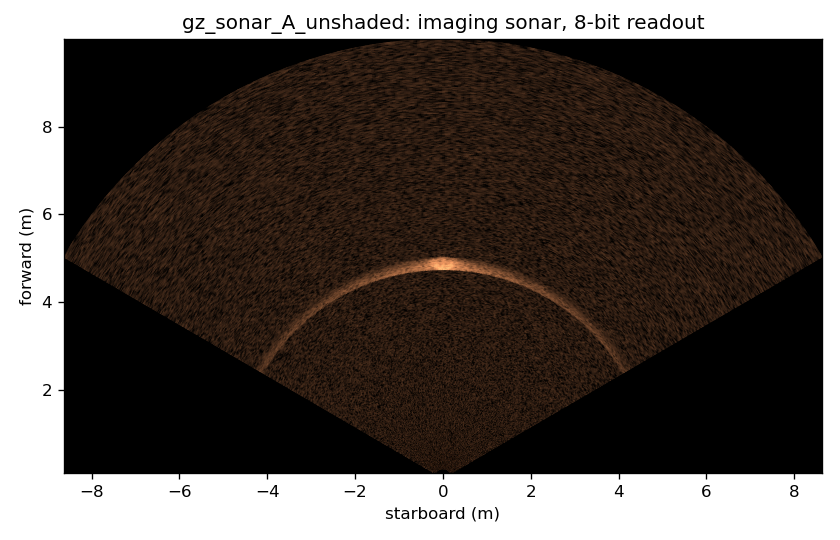
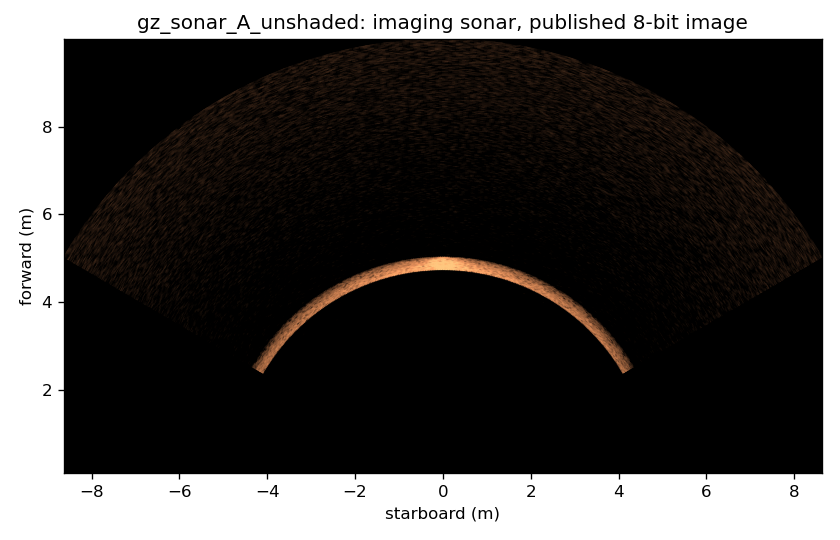
Sonar docs: regenerate the figures the review changes made stale
- render-a-ping: all six gz_sonar_*.png re-rendered with the current
  engine and readout (fixed gain, noise before the gain, the Kirchhoff
  specular term). Scene A's text now says what the image shows: at the
  fixed gain the sphere's sidelobe arc dims away from it and is gone
  about 45 degrees to either side with the shaded array, and reaches the
  fan's edge unshaded.
- sonar-features: the noise comparison redrawn at ping 100 from a static
  probe at the ROV sonar's pose, at the default -140 dB and the page's
  example -110 dB (the old titles gave the pre-change scale).
- The ping-flow figure says the engine runs on up to 8 cores.
- Related work: ray casting in HoloOcean 2.0 is described as in
  development, as its preview paper does.

diff --git a/docs/design/figures/sonar_ping_flow.py b/docs/design/figures/sonar_ping_flow.py
@@ -24,7 +24,7 @@ BOXES = {
     'trigger': (1.0, 2.9, 'sonar plugin\nping due: render', CPU),
     'draw': (1.0, 4.35, 'gz-rendering\ndraws depth and\nsegmentation,\ncopies to CPU', GPU),
     'hits': (0.0, 5.8, 'gz_sonar\nimages to hits\n1 core', CPU),
-    'engine': (0.0, 7.25, 'gz_sonar engine\nbeams, samples\nall cores', CPU),
+    'engine': (0.0, 7.25, 'gz_sonar engine\nbeams, samples\nup to 8 cores', CPU),
     'out': (0.0, 8.7, 'gz_sonar\nlevels, message\n1 core', CPU),
 }
 W, H = 1.2, 0.7

diff --git a/docs/design/render-a-ping.md b/docs/design/render-a-ping.md
@@ -67,12 +67,12 @@ Scene A, side view. The sphere sits on the beam's axis, and the seabed, 7 m down
 ```
 
 ```{figure} images/gz_sonar_A.png
-:alt: Imaging sonar fan of scene A: a bright spot at 4.75 m on the axis and a faint arc close to it at the same range
+:alt: Imaging sonar fan of scene A: a bright spot at 4.75 m on the axis and an arc at the same range, dimming away from it and gone about 45° to either side
 
-Scene A. The sphere's near face, at 4.75 m on the axis, with a faint arc at the same range on either side of it.
+Scene A. The sphere's near face, at 4.75 m on the axis, with an arc at the same range on either side of it that dims away from the sphere.
 ```
 
-The arc is expected. A sonar forms each beam from an array of transducers, and every beam also hears a little from directions outside its main lobe, through its sidelobes. A strong, isolated target is therefore heard by every beam at its own range, and shows as an arc across the fan, brightest next to the target and fading away from it; real imaging sonars show the same arcs around strong targets in open water. How far the arc reaches depends on the array. Imaging sonars usually shade their arrays, weighting the elements to lower the sidelobes, and the default here is a shaded array (`sidelobe_level` −25 dB, `sidelobe=-25` on `gz_sonar_render_ping`'s command line), which keeps the arc close to the target. An unshaded array (`sidelobe=-13`) has sidelobes that fall off slowly and carry the arc across the whole fan:
+The arc is expected. A sonar forms each beam from an array of transducers, and every beam also hears a little from directions outside its main lobe, through its sidelobes. A strong, isolated target is therefore heard by every beam at its own range, and shows as an arc across the fan, brightest next to the target and fading away from it; real imaging sonars show the same arcs around strong targets in open water. How far the arc reaches depends on the array. Imaging sonars usually shade their arrays, weighting the elements to lower the sidelobes, and the default here is a shaded array (`sidelobe_level` −25 dB, `sidelobe=-25` on `gz_sonar_render_ping`'s command line), so the arc dims away from the target and is gone about 45° to either side. The sphere is a strong target at the default fixed gain, which is why its arc shows that far. An unshaded array (`sidelobe=-13`) has sidelobes that fall off slowly and carry the arc across the whole fan:
 
 ```{figure} images/gz_sonar_A_unshaded.png
 :alt: Imaging sonar fan of scene A with an unshaded array: the bright spot at 4.75 m and a bright arc at the same range across the whole fan

diff --git a/docs/design/sonar.md b/docs/design/sonar.md
@@ -61,7 +61,7 @@ A survey of the field in November 2026 found the following.
 | Simulator | Sonar model | Fidelity | What we take from it |
 |---|---|---|---|
 | DAVE, now [IOES-Lab/POSIM](https://github.com/IOES-Lab/POSIM) (Gazebo Jetty, ROS 2 Lyrical, Apache-2.0) | Point scattering on depth-camera rays, complex Gaussian amplitudes, beam pattern, per-beam time series; CPU, CUDA and WGPU back ends; publishes `marine_acoustic_msgs/ProjectedSonarImage` | Coherent point scattering on rasterized geometry, the only open model at this level | The output contract, the depth-camera sampling, and the scattering formulation, as ideas and, where useful, adapted code. Its absorption constant suits about 100 kHz rather than the MHz heads it ships, its back ends disagree numerically, and it has not been validated quantitatively against real data |
-| HoloOcean (Unreal; papers: [simulator](https://doi.org/10.1109/ICRA46639.2022.9812353), ICRA 2022; [sonar](https://doi.org/10.1109/IROS47612.2022.9981119), IROS 2022) | Octree, ray-cast and GPU back ends; cosine and impedance shading, mean per bin, heuristic noise; imaging, profiling, sidescan, single beam | Geometric (octree projection; ray casting in HoloOcean 2.0) with partial intensity physics | That one engine can serve imaging, profiling and sidescan by configuration. Averaging per bin, instead of summing, removes the dependence on ensonified area |
+| HoloOcean (Unreal; papers: [simulator](https://doi.org/10.1109/ICRA46639.2022.9812353), ICRA 2022; [sonar](https://doi.org/10.1109/IROS47612.2022.9981119), IROS 2022) | Octree, ray-cast and GPU back ends; cosine and impedance shading, mean per bin, heuristic noise; imaging, profiling, sidescan, single beam | Geometric (octree projection; ray casting in development for HoloOcean 2.0) with partial intensity physics | That one engine can serve imaging, profiling and sidescan by configuration. Averaging per bin, instead of summing, removes the dependence on ensonified area |
 | [Stonefish](https://github.com/patrykcieslak/stonefish) (OpenGL, GPL-3.0) | Rasterize and bin per beam column; correct ping timing from 2R/c | Image-based to geometric | Ping timing; the GPL rules out reusing code |
 | [OceanSim](https://github.com/umfieldrobotics/OceanSim) (Isaac Sim) | GPU ray-traced point cloud, cosine and attenuation, normalized by range | Geometric | Normalizing per frame or row erases the absolute intensity that classification needs |
 | [MARUS](https://github.com/MARUSimulator) (Unity) | CPU ray casts, cosine-squared shading; labeled dataset export | Geometric | Per-return object labels for training data |

diff --git a/docs/how-to/sonar-features.md b/docs/how-to/sonar-features.md
@@ -73,7 +73,7 @@ A few of the sonar's own parameters make its image easier or harder to work with
 ```{figure} images/sonar-features-noise.png
 :alt: Two sonar fans of the same scene side by side: on the left the default, with dark shadows behind the targets and a dark zone close in; on the right the noise floor raised, with the shadows and the near zone filled with noise and less contrast overall
 
-The example: ping 100 of the imaging sonar world, at the default noise floor and with the noise floor raised. The noise fills the shadows and the empty water close in, and the whole image loses contrast; the brightest returns still stand out, the shadows that tell a detector an object's height are mostly gone.
+The example: ping 100 of the imaging sonar world, at the default noise floor and with the noise floor raised. The noise fills the shadows and, more faintly because it rises with range, the empty water close in, and the whole image loses contrast; the brightest returns still stand out, the shadows that tell a detector an object's height are mostly gone.
 ```
 
 ## Repeatable randomness: the seed
